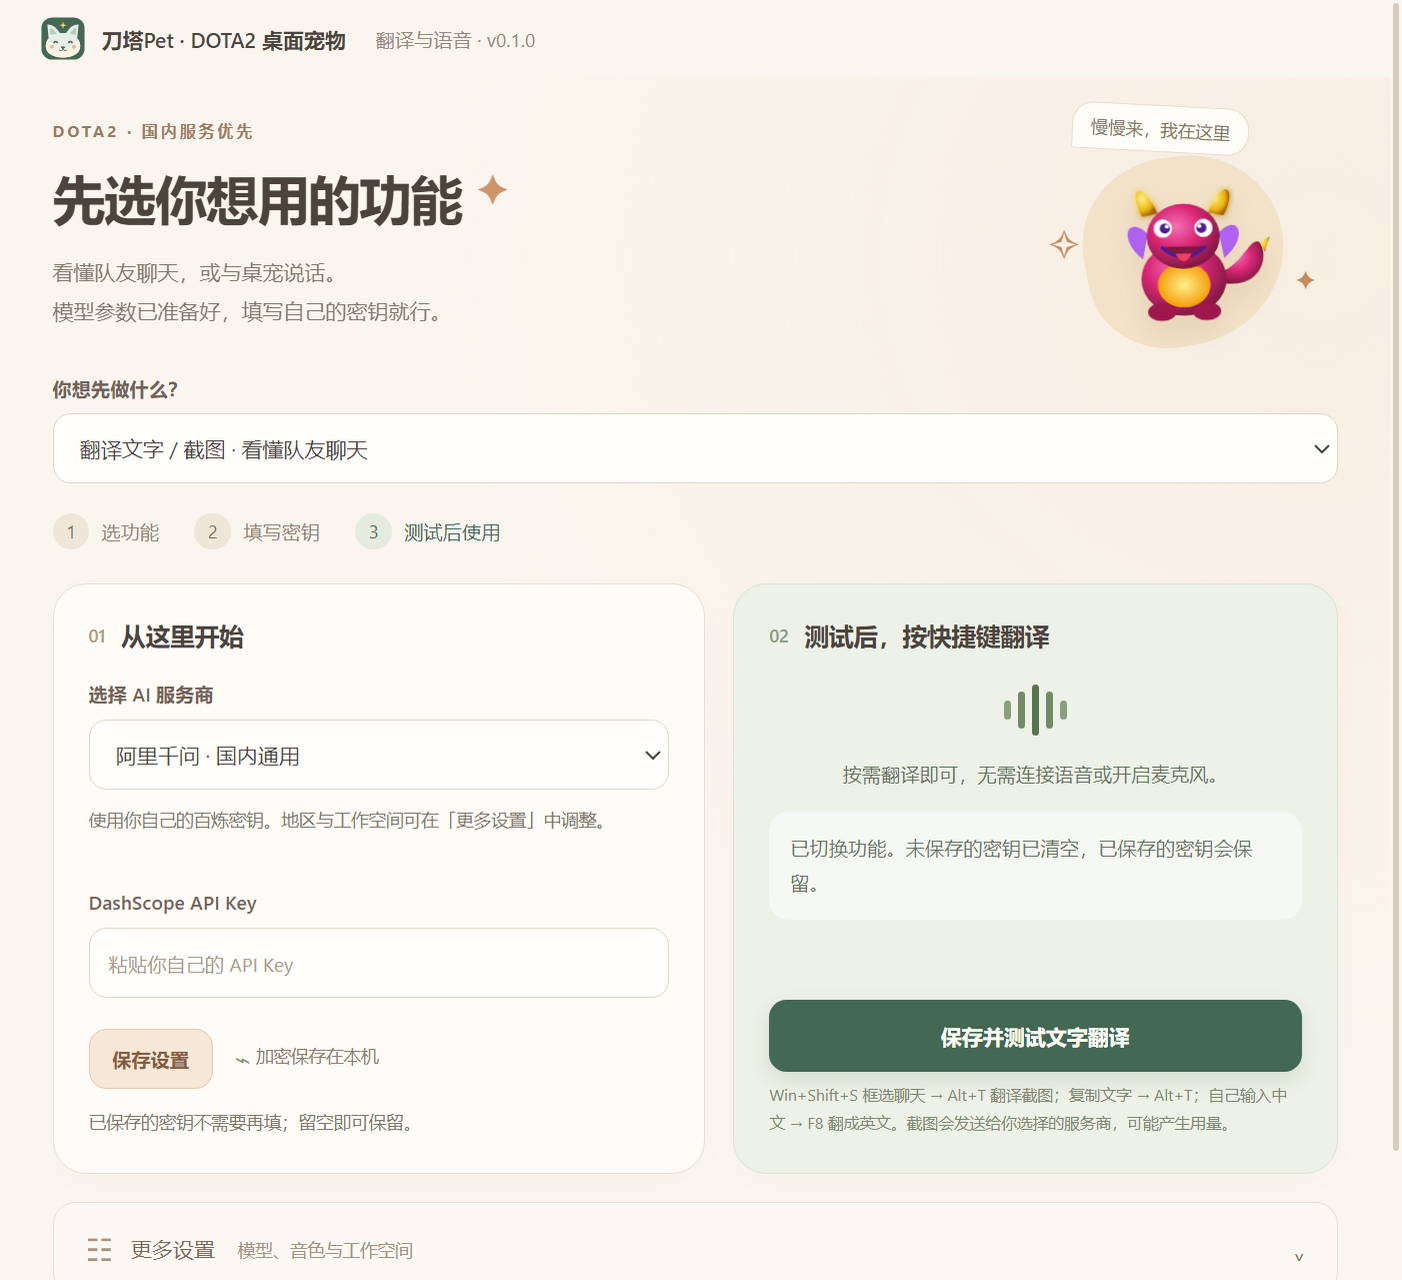
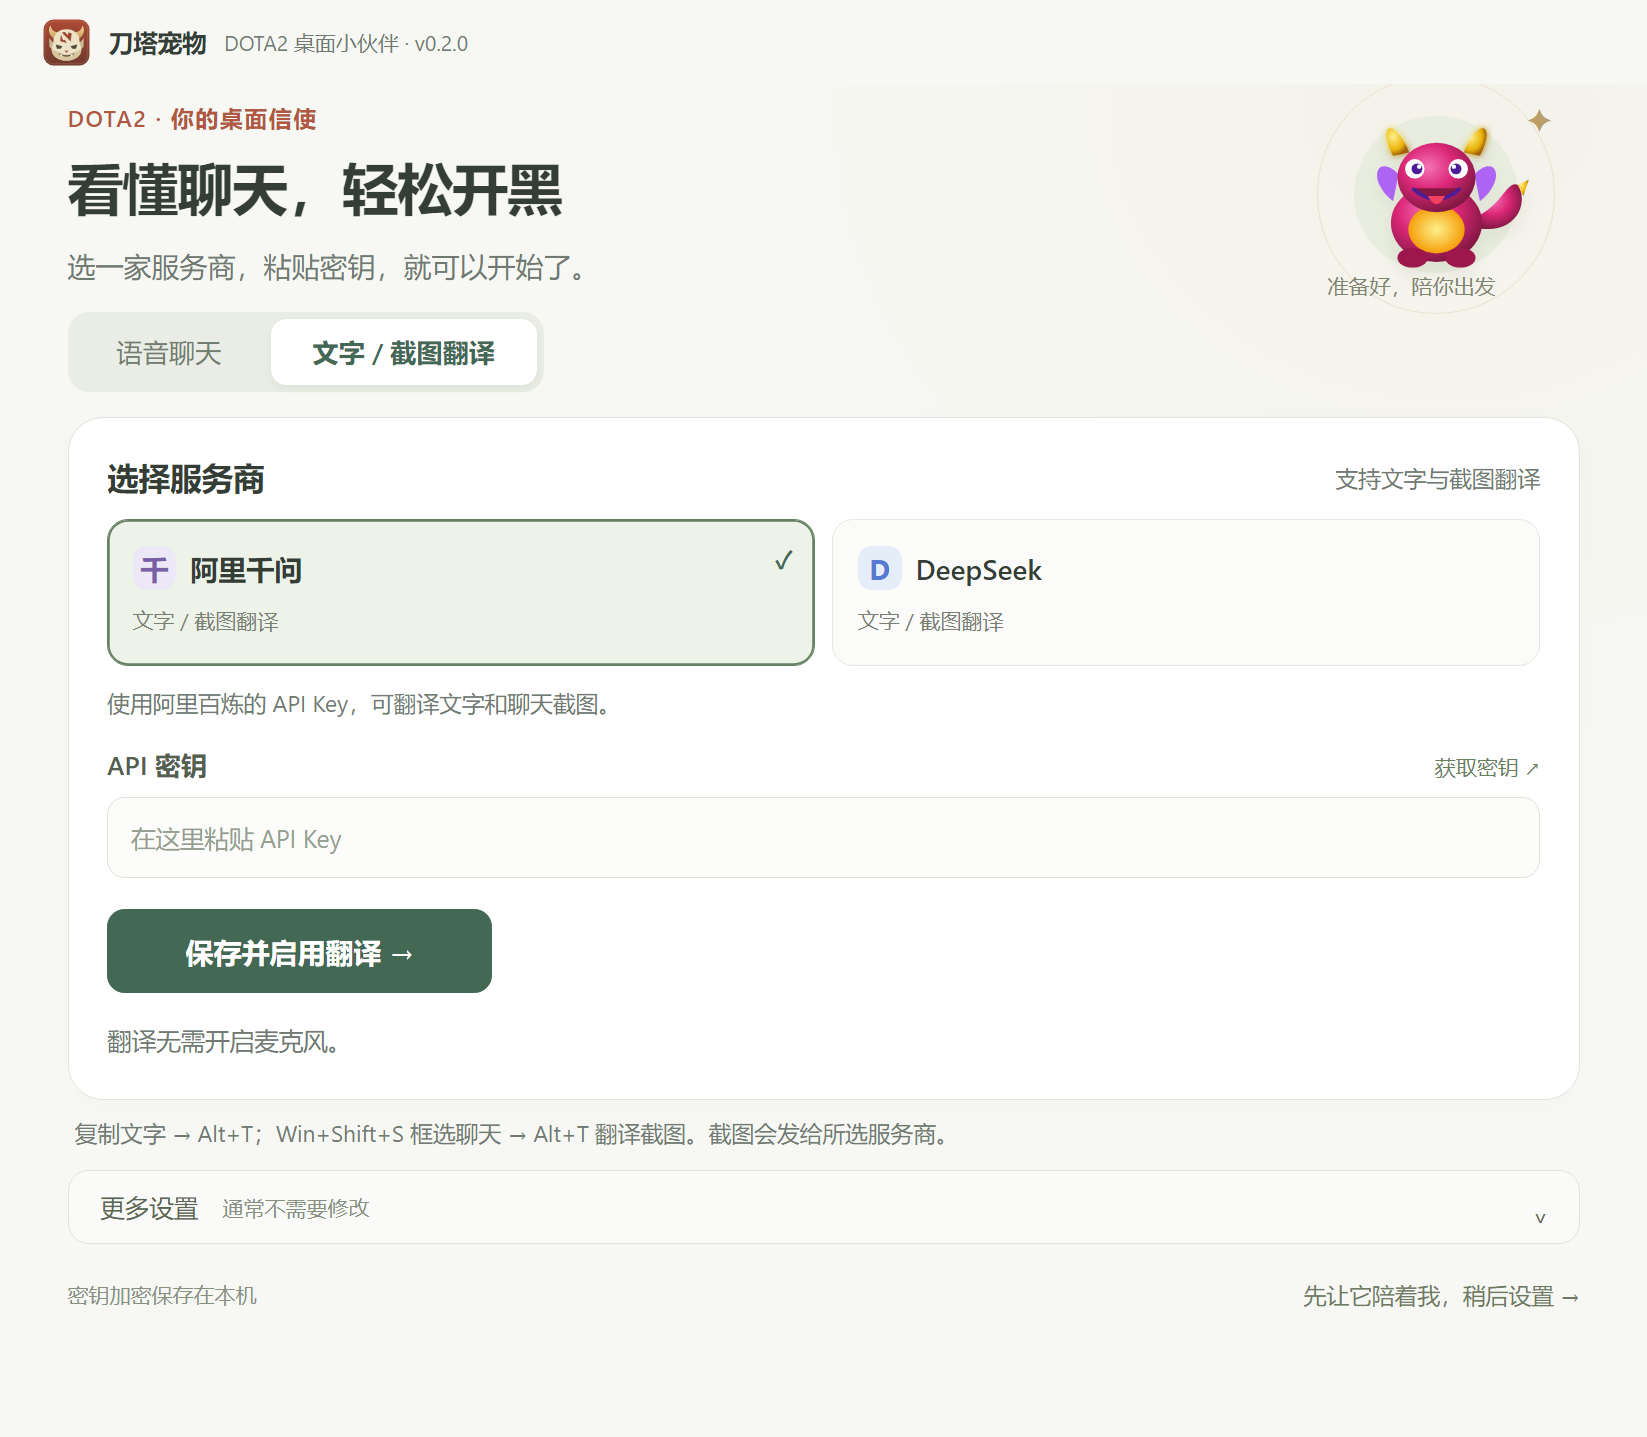
docs: explain first setup, preserved settings and the 0.2.0 update flow

diff --git a/docs/README_COMPANION_RELEASE.md b/docs/README_COMPANION_RELEASE.md
@@ -1,27 +1,30 @@
-# 刀塔Pet · Windows 体验版 0.1.2
+# 刀塔宠物 · Windows 体验版 0.2.0（本地构建）
 
 ## 安装与第一次使用
 
 1. 从 GitHub Releases 下载并双击 `DotaPet-Setup-0.1.2.exe`。
 2. 选择安装目录，完成后打开桌面快捷方式。使用者不需要安装 Node.js。
-3. 首次打开会出现三步引导：认识基本操作 → 检查声音 → 开始陪伴。
-4. 如果只想要桌面陪伴，点击「先陪着我，稍后设置」即可。关掉引导窗口也会记住这个选择。
+3. 首次打开直接出现配置页：千问、豆包、Gemini、Cartesia 四张卡片全部显示。选择服务商、粘贴密钥、点击「保存并开始聊天」即可。
+4. 如果只想要桌面陪伴，点击「先让它陪着我，稍后设置」即可。关掉配置窗口也会记住这个选择，之后启动不会反复弹出。
 
-随时可以右键宠物或任务栏里的小狼图标，选择「新手引导 / 使用帮助」。找不到宠物时，双击托盘图标找回；任务栏右下角的隐藏图标区域也可能收纳它。
+当前 GitHub 已发布安装包为 0.1.2；0.2.0 的本地构建位于 `release/DotaPet-Setup-0.2.0.exe`。
+
+随时可以右键宠物或任务栏里的金角信使图标，选择「新手引导 / 使用帮助」。找不到宠物时，双击托盘图标找回；任务栏右下角的隐藏图标区域也可能收纳它。
 
 ## 语音怎么开启
 
 - 在引导或语音设置中点击「检查麦克风」，说一句话，看音量条变化。它只在本机检查音量，不保存、不上传、不回放；检查结束、切换引导步骤或隐藏页面都会关闭麦克风。
 - 无设备：连接耳机或麦克风，并在 Windows 声音设置中选择默认输入设备。
 - 权限关闭：点击「打开 Windows 麦克风设置」，允许桌面应用访问麦克风。
-- 打开设置，将「你想先做什么」切换为「语音对话」，国内优先选择千问或豆包。填写自己的 API Key，点击「保存并测试语音」，通过后点击「连接语音」。AI 测试不启动麦克风，可能产生服务商用量。
+- 打开设置，点击「语音聊天」，选择千问、豆包、Gemini 或 Cartesia。填写自己的 API Key，点击「保存并开始聊天」即可保存并连接，不需要单独测试。没有密钥时可点输入框旁的「获取密钥」。Cartesia 还需要 DeepSeek 密钥。
+- 每家服务默认已选好声音，通常不需要修改；可在主界面切换三种常用音色，或到「更多设置」选择全部音色。之前保存的其他音色也会继续显示。Gemini 的实时语音翻译位于其「更多设置」中，两种模式分别保存密钥。
 - 连接成功后，回到桌宠点击麦克风或按 `Alt+Q` 开始讲话，再点一次或按同一个快捷键关闭。
 
-麦克风检查和 AI 测试分别验证本机输入与云端会话；都通过后仍需按语音按钮开始对话。AI 需要联网，实际用量按服务商规则计费。密钥由 Windows 本机加密保存，不包含在安装包中。
+连接成功后点击「完成，回到桌宠」，再按语音按钮开始对话。「更多设置」中仍可单独测试语音，麦克风检查也可在遇到声音问题时使用。AI 需要联网，实际用量按服务商规则计费。密钥由 Windows 本机加密保存，不包含在安装包中。
 
 ## 看懂队友聊天
 
-打开设置，选择「翻译文字 / 截图」，选千问或 DeepSeek，粘贴密钥并点击「保存并测试文字翻译」。这个测试只验证文字模型，不代表截图识别已经实测通过；视觉模型权限和实际识别结果需用截图确认。
+打开设置，点击「文字 / 截图翻译」，选千问或 DeepSeek，粘贴密钥并点击「保存并启用翻译」。这个操作会测试文字模型，不代表截图识别已经实测通过；视觉模型权限和实际识别结果需用截图确认。
 
 - **队友聊天截图**：按 `Win+Shift+S`，只框选游戏聊天区域；截图进入剪贴板后，按 `Alt+T`，在桌宠浮层看中文结果。程序不会向游戏输入或发送消息，也不会把截图替换为文字。
 - **已有文字**：复制文字，按 `Alt+T`。中文成功译成英文时，英文会写入剪贴板，方便手动粘贴。
@@ -31,7 +34,7 @@
 
 选择千问时，同一百炼密钥可以用于文字、截图和语音，但相应模型需在所属地区和工作空间可用。「更多设置」中的地区应与密钥一致；有独立工作空间的账户填写工作空间 ID。DeepSeek 在本程序中用于文字与图片，不用于实时语音对话。
 
-文字云翻译失败时可使用有限的本地 DOTA2 术语词表；截图失败会显示重试提示，不会凭空生成译文或自动调用另一家服务。默认设置不显示海外语音服务；需要时在「更多设置」勾选显示。Google Gemini API 的支持地区不包含中国大陆。
+文字云翻译失败时可使用有限的本地 DOTA2 术语词表；截图失败会显示重试提示，不会凭空生成译文或自动调用另一家服务。四个语音服务商直接展示，使用 Gemini 或 Cartesia 时需要具备对应的账户与网络条件。
 
 Windows 截图与桌宠浮层需在实际游戏显示模式下验证；建议先在无边框窗口中尝试。独占全屏的截图、前台切换和浮层行为可能不同。当前没有持续自动 OCR，也没有读取游戏进程内存或注入 DLL。
 
@@ -43,7 +46,15 @@ Windows 截图与桌宠浮层需在实际游戏显示模式下验证；建议先
 
 安装包与开发版沿用相同应用标识和数据目录。卸载默认保留个人设置，重新安装可继续使用；卸载界面中若主动选择删除应用数据，会清除设置。迁移到另一台电脑时，需要重新填写密钥，因为加密与原 Windows 用户相关。
 
-当前体验版未做代码签名。首次运行可能出现 Windows 发布者提示；正式发布前需要配置签名证书。自动更新尚未接入，当前通过下载新版安装包更新。
+当前体验版未做代码签名。首次运行可能出现 Windows 发布者提示；正式发布前需要配置签名证书。
+
+0.2.0 起，托盘 →「检查更新」打开更新窗口；发现新版后点击「更新并重启」，会下载并校验更新包、覆盖安装、自动重新打开桌宠。启动后及每 4 小时自动检查 GitHub 正式发布版本，有更新时提供通知和托盘入口；仅检查不下载。关闭更新窗口或选择稍后重启，会继续下载但不自动安装，完成后可点击「安装并重启」。普通退出也不会强制安装。
+
+密钥、音色和形象设置继续保留。旧版本需先手动安装一次 0.2.0，之后才能使用应用内更新。GitHub 网络不可用时可重试或打开发布页手动下载。
+
+![应用更新界面](images/update.png)
+
+更新界面验收示例；图中 0.3.0 为模拟发布数据，不表示已发布该版本。
 
 ## 开发与验收
 
@@ -56,6 +67,7 @@ npm test
 npm run test:onboarding
 npm run smoke
 node scripts/smoke-desktop.mjs release/win-unpacked/DotaPet.exe
+npm run test:update-download
 npm run verify:installer -- -Baseline "你保留的旧安装包.exe"
 ```
 
@@ -63,8 +75,10 @@ npm run verify:installer -- -Baseline "你保留的旧安装包.exe"
 
 麦克风自动验收使用 Chromium 模拟音频设备，不访问真实麦克风；真实耳机、麦克风权限与云端 API 需在使用界面中验证。
 
-0.1.2 沿用 18 个测试文件，并提供源码和打包程序的桌面冒烟验收。该机器已有旧版安装，不执行真实覆盖安装与卸载。真实云端截图识别、延迟和游戏全屏兼容也尚未实测。
+回归测试覆盖更新状态、重复点击、校验失败和推迟重启；源码与打包程序的桌面冒烟测试使用模拟发布数据验证真实窗口及 IPC。`test:update-download` 用本机回环服务器和隔离缓存下载真实安装包，验证发布元数据、SHA512、错误校验值拒绝，不执行安装。该机器已有旧版安装，不执行真实覆盖安装与卸载。真实云端截图识别、延迟和游戏全屏兼容也尚未实测。
 
-独立仓库从 0.1.0 重新编号，原本机试制版本的 1.x 不表示正式稳定版。DotaPet 保留原安装标识和用户数据路径，但品牌变化及从 1.x 迁移到 0.x 的实际安装行为仍需在干净账户中验证。请先保留个人配置备份，退出旧版后手动安装；当前没有自动更新。
+独立仓库从 0.1.0 重新编号，原本机试制版本的 1.x 不表示正式稳定版。DotaPet 保留原安装标识和用户数据路径，但品牌变化及从 1.x 迁移到 0.x 的实际安装行为仍需在干净账户中验证。退出旧版后手动安装；自动更新不降级到较低版本。
+
+发布流水线会上传安装包、`latest.yml`、`.blockmap` 和 SHA256 校验值；`v0.*` 标签触发的发布从 0.2.0 起作为正式发布渠道（仍属早期体验版）。开发运行 `npm start` 不会检查或安装更新。本地构建不等于已发布，需将新版及元数据发布到 GitHub 后，其他安装版才能收到更新。
 
 图标源文件是 `src/renderer/assets/app-icon.svg`。修改后运行 `npm run build:icons`，同步生成六种尺寸的 ICO 和 PNG，再打包。

diff --git a/README.md b/README.md
@@ -1,10 +1,10 @@
-# 刀塔Pet · DotaPet
+# 刀塔宠物 · DotaPet
 
 陪你开黑的 DOTA2 桌面宠物，支持英雄与信使陪伴、AI 语音对话和游戏聊天翻译。
 
-**当前版本：0.1.2，Windows 早期体验版。** 功能仍在快速迭代，真实对局的截图识别准确率、响应速度和全屏兼容性需要持续验证。
+**当前源码与本地构建：0.2.0，Windows 早期体验版；已发布安装包为 0.1.2。** 功能仍在快速迭代，真实对局的截图识别准确率、响应速度和全屏兼容性需要持续验证。
 
-![刀塔Pet 首次使用引导](docs/images/welcome.png)
+![刀塔宠物 首次配置](docs/images/welcome.png)
 
 翻译与语音按用途分别设置：[查看设置界面](docs/images/translation-settings.png)。
 
@@ -12,13 +12,13 @@
 
 从 [Releases](https://github.com/xiaobaoliu849/dotapet/releases) 下载 `DotaPet-Setup-0.1.2.exe` 并运行。普通用户不需要安装 Node.js。
 
-程序启动后可拖动宠物，右键切换形象、调整设置；任务栏托盘图标可以找回隐藏的桌宠。不配置 AI 也可使用桌面互动。
+首次启动直接打开配置页：选择服务商、粘贴密钥、点击开始。也可点击「先让它陪着我，稍后设置」跳过。程序启动后可拖动宠物，右键切换形象、调整设置；任务栏托盘图标可以找回隐藏的桌宠。不配置 AI 也可使用桌面互动。
 
 ## 已有功能
 
 - 英雄与信使形象、桌面漫游、互动和自定义图片／背景／预设。
 - DOTA2 GSI 联动：英雄识别、战斗事件和游戏计时提醒。
-- 国内服务优先的语音设置：千问、豆包；本机麦克风检查。
+- 四个语音服务商直接展示：千问、豆包、Gemini、Cartesia；常用音色和本机麦克风检查。
 - 千问／DeepSeek 文字与聊天截图翻译，Windows 加密保存个人密钥。
 - 游戏快捷短语和自己聊天输入框的中文转英文。
 
@@ -29,7 +29,7 @@
 | 看懂队友聊天 | 设置选择「翻译文字 / 截图」→ 千问或 DeepSeek → 填密钥并测试 → `Win+Shift+S` 框选聊天 → `Alt+T` |
 | 翻译已复制的文字 | 复制文字 → `Alt+T` |
 | 自己发英文 | 游戏聊天框输入中文 → `F8` 翻成英文 → 检查后自己按 Enter |
-| 与桌宠语音对话 | 设置选择「语音对话」→ 千问或豆包 → 填密钥、测试、连接 → `Alt+Q` 开关麦克风 |
+| 与桌宠语音对话 | 「语音聊天」→ 点击服务商卡片 → 填密钥 →「保存并开始聊天」→ `Alt+Q` 开关麦克风 |
 | 快捷短语 | `F6` |
 
 翻译无需开启麦克风。截图会发送到你选择的服务商，云端用量按其规则计费。F8 读取自己的输入框；当前没有持续自动 OCR 或队友语音识别。
@@ -72,7 +72,9 @@ docs/           使用说明、版本记录与计划
 
 开源仓库从 `0.1.0` 开始：问题修复递增末位（如 `0.1.1`、`0.1.2`），功能迭代用 `0.2.0`，稳定性和主要体验达标后再考虑 `1.0.0`，不按更新次数升级主版本号。查看 [变更记录](CHANGELOG.md)。
 
-此前本机试制的 `1.x` 编号不代表正式稳定版，也没有在这个仓库发布。迁移为 DotaPet 后沿用原应用标识及 `%APPDATA%\dota2-voicespirit-companion` 数据目录；更新前退出旧程序，再手动运行新安装包。当前没有应用内自动更新。
+0.2.0 起支持应用内更新：启动后及每 4 小时自动检查 GitHub 正式发布版本，托盘 →「检查更新」→「更新并重启」即可下载安装并重新打开桌宠。关闭更新窗口可稍后安装。仅检查不会下载；更新保留密钥、音色和自定义形象。后续发布需要同时提供安装包、`latest.yml` 和 `.blockmap`，发布工作流已配置。
+
+旧版没有更新功能，需退出旧程序，先手动安装一次 0.2.0。此前本机试制的 `1.x` 编号不代表正式稳定版，也没有在这个仓库发布。迁移后沿用原应用标识及 `%APPDATA%\dota2-voicespirit-companion` 数据目录。网络不可用时可重试或从发布页手动下载安装包。
 
 推送 `v0.x.y` 标签会运行 Windows 检查、打包并发布体验版到 Releases，安装包不提交到源码仓库。
 

diff --git a/CHANGELOG.md b/CHANGELOG.md
@@ -1,5 +1,24 @@
 # 版本记录
 
+## 0.2.0 — 2026-10-08
+
+- 增加应用内更新：启动后及每 4 小时检查 GitHub 的正式发布版本；托盘中可随时检查更新。
+- 点击「更新并重启」后下载、校验、覆盖安装并重新打开桌宠，保留 API Key、音色和自定义形象。
+- 更新窗口展示进度与更新说明；关闭窗口或选择稍后重启会保留下载，等待用户再次点击安装。
+- 网络或校验失败时继续运行当前版本，并提供重试及发布页入口。开发模式不检查更新。
+- 发布流水线增加 latest.yml 和 blockmap，后续正式发布才会向安装版提供更新；旧版需先手动安装一次 0.2.0。
+- 包含 0.1.3 的首次设置简化与图标优化。
+- 修复主窗口及 Windows 任务切换仍显示 VoiceSpirit 旧名称，统一显示「刀塔宠物 · DotaPet」，中文快捷方式改为「刀塔宠物」。
+
+## 0.1.3 — 2026-10-08（本地界面迭代，合并入 0.2.0）
+
+- 首次打开直接展示配置页，可一次保存并连接语音，或跳过 AI 设置开始桌面陪伴。
+- 千问、豆包、Gemini、Cartesia 四个语音服务商直接以卡片展示，取消海外服务隐藏开关。Gemini 的实时语音翻译归入其功能设置。
+- 增大字号，简化提示；默认只展示三种常用音色，保留已选音色和高级设置中的完整列表。
+- 增加获取密钥入口，完成配置后可直接回到桌宠；翻译仍独立配置千问或 DeepSeek。
+- 图标更新为砖红符文与金角信使，同步 PNG 和六种尺寸 ICO。
+- 回归验证首次配置、升级后跳过、一次连接、取消测试、音色与密钥隔离，以及桌面布局。
+
 ## 0.1.2 — 2026-10-08
 
 - 修复版本更新误改依赖锁文件中的第三方版本，恢复原依赖及校验值；仅更新项目自身版本字段。

diff --git a/docs/RELEASE_NOTES.md b/docs/RELEASE_NOTES.md
@@ -1,4 +1,4 @@
-# 刀塔Pet · Windows 早期体验版
+# 刀塔宠物 · Windows 早期体验版
 
 桌面陪伴、AI 语音与对局聊天翻译。下载本页的 `DotaPet-Setup-<版本>.exe` 安装；`SHA256SUMS.txt` 提供安装包校验值。
 
@@ -12,6 +12,8 @@
 
 ## 更新与当前限制
 
-退出旧程序后手动运行安装包。保留同一 Windows 用户，原 VoiceSpirit 体验版数据目录继续沿用。
+0.2.0 增加应用内更新：启动后及每 4 小时检查正式发布版本；托盘 → 检查更新 →「更新并重启」即可下载、校验、安装并重新打开桌宠。关闭更新窗口可稍后安装。API Key、音色和自定义形象继续保留。
 
-这是一份未签名的 Windows 体验版；没有应用内自动更新和持续自动 OCR。真实云端识别质量、响应速度和游戏全屏兼容尚需实际验证。自动检查覆盖回归测试及隔离的启动与设置流程，不代表已完成真实游戏与云端验收。
+旧版本需退出程序并手动安装一次 0.2.0，之后可在应用内更新。保留同一 Windows 用户，原 VoiceSpirit 体验版数据目录继续沿用。
+
+这是一份未签名的 Windows 体验版；没有持续自动 OCR。真实云端识别质量、响应速度和游戏全屏兼容尚需实际验证。自动检查覆盖回归测试及隔离的启动、设置和更新交互流程，不代表已完成真实游戏、云端与实际覆盖安装验收。
